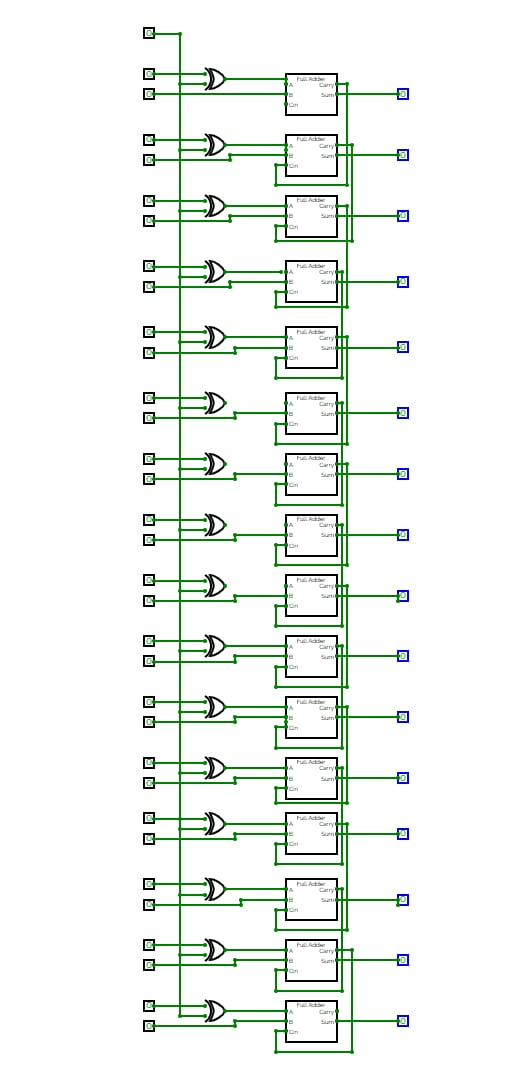
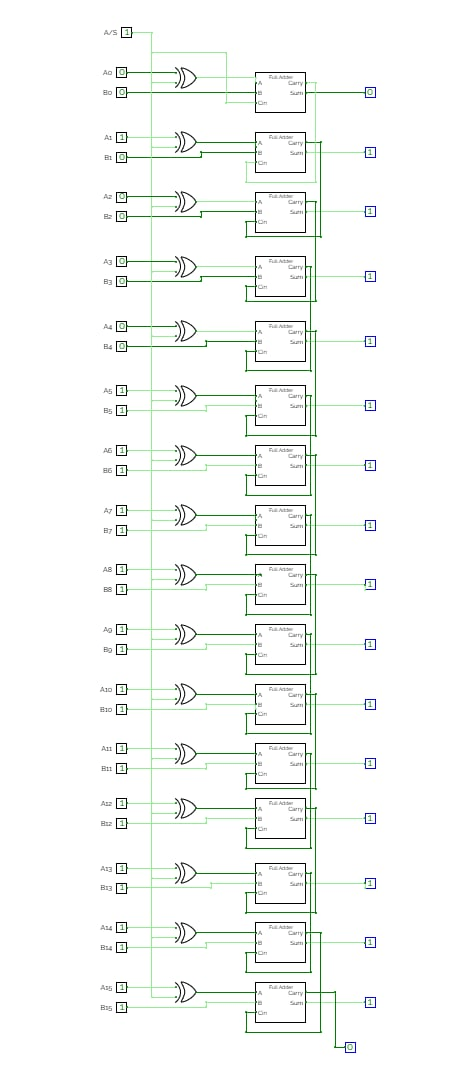
Update website

diff --git a/index.html b/index.html
@@ -870,27 +870,27 @@
             <tbody>
               <tr>
                 <td>Balanlay, Adam Samuel M.</td>
-                <td>[Web Designer]</td>
+                <td>Web Designer</td>
               </tr>
               <tr>
                 <td>Fortes, Axel Dirk B.</td>
-                <td>[CircuitVerse Developer]</td>
+                <td>CircuitVerse Developer</td>
               </tr>
               <tr>
                 <td>Gingging, Ria Fatima A.</td>
-                <td>[Leader, CircuitVerse Developer]</td>
+                <td>Leader & CircuitVerse Developer</td>
               </tr>
               <tr>
                 <td>Gokotano, Ray Nathaniel M.</td>
-                <td>[Web Developer, Debugger]</td>
+                <td>Web Developer & Debugger</td>
               </tr>
               <tr>
                 <td>Montayre, Ralph Murry P.</td>
-                <td>[Web Developer, Web Designer]</td>
+                <td>Web Developer & Web Designer</td>
               </tr>
               <tr>
                 <td>Royo, Ron Paolo G.</td>
-                <td>[CircuitVerse Developer]</td>
+                <td>CircuitVerse Developer</td>
               </tr>
             </tbody>
           </table>
@@ -900,7 +900,7 @@
           <ol>
             <li>
               Click
-              <a href="https://circuitverse.org/users/476243/projects/calculator-d6ad0814-bec1-4cd2-bba3-02c9db96365e" target="_blank">Open in CircuitVerse</a>
+              <a href="https://circuitverse.org/users/476243/projects/group-g-16-bit-calculator-circuitverse" target="_blank">Open in CircuitVerse</a>
               and select Launch Simulator if it appears.
             </li>
             <li>Set the 16-bit input A.</li>
@@ -1011,7 +1011,7 @@
           <h2 id="live">Open the live circuit</h2>
           <p>The project is set to Public, so you can run it without signing in.</p>
           <p>
-            <a class="startbtn" href="https://circuitverse.org/users/476243/projects/calculator-d6ad0814-bec1-4cd2-bba3-02c9db96365e" target="_blank">Open in CircuitVerse</a>
+            <a class="startbtn" href="https://circuitverse.org/users/476243/projects/group-g-16-bit-calculator-circuitverse" target="_blank">Open in CircuitVerse</a>
           </p>
           <section class="calc">
             <div class="cbar">Calculator</div>
